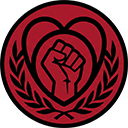
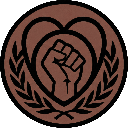
Update crew colors

diff --git a/functions/src/shared/constants/discord.ts b/functions/src/shared/constants/discord.ts
@@ -84,13 +84,13 @@ export const CREW_HEAD_ROLE_IDS = {
 export const CREW_EMOJIS = {
   ALLIED: '<:stockism_allied:1466671644427948208>',
   BIG_DEAL: '<:stockism_bigdeal:1466671715701493951>',
-  FIST_GANG: '<:stockism_gapryongkimfistgang:1466671819955372199>',
+  FIST_GANG: '<:crew_fist_gang:1561192198316236915>',
   GOD_DOG: '<:stockism_goddog:1466671860392525844>',
-  SECRET_FRIENDS: '<:stockism_gookimsecretfriends:1466671940340023540>',
   HOSTEL: '<:stockism_hostel:1466671994971099321>',
+  KITAE_UNION: '<:kitaeunion:1535475594329071787>',
+  SECRET_FRIENDS: '<:stockism_gookimsecretfriends:1466671940340023540>',
   WTJC: '<:stockism_whitetigerjobcenterwtjc:1466672073005993985>',
   WORKERS: '<:stockism_workers:1466672134393954324>',
-  KITAE_UNION: '<:kitaeunion:1535475594329071787>',
   YAMAZAKI: '<:stockism_yamazakisyndicate:1466672168921337866>',
 };
 // Matches `<:name:123...>` and `<a:name:123...>`. Anything in CREW_EMOJIS that

diff --git a/functions/src/shared/crews.ts b/functions/src/shared/crews.ts
@@ -61,7 +61,7 @@ export const CREWS: Record<string, Crew> = {
   FIST_GANG: {
     id: 'FIST_GANG',
     name: 'Fist Gang',
-    color: '#a91a2c',
+    color: '#7e4e42',
     emblem: '👊',
     icon: '/crews/fist gang.png',
     members: [

diff --git a/src/crews.ts b/src/crews.ts
@@ -60,7 +60,7 @@ export const CREWS: Record<string, Crew> = {
   FIST_GANG: {
     id: 'FIST_GANG',
     name: 'Fist Gang',
-    color: '#a91a2c',
+    color: '#7e4e42',
     emblem: '👊',
     icon: '/crews/fist gang.png',
     members: [
